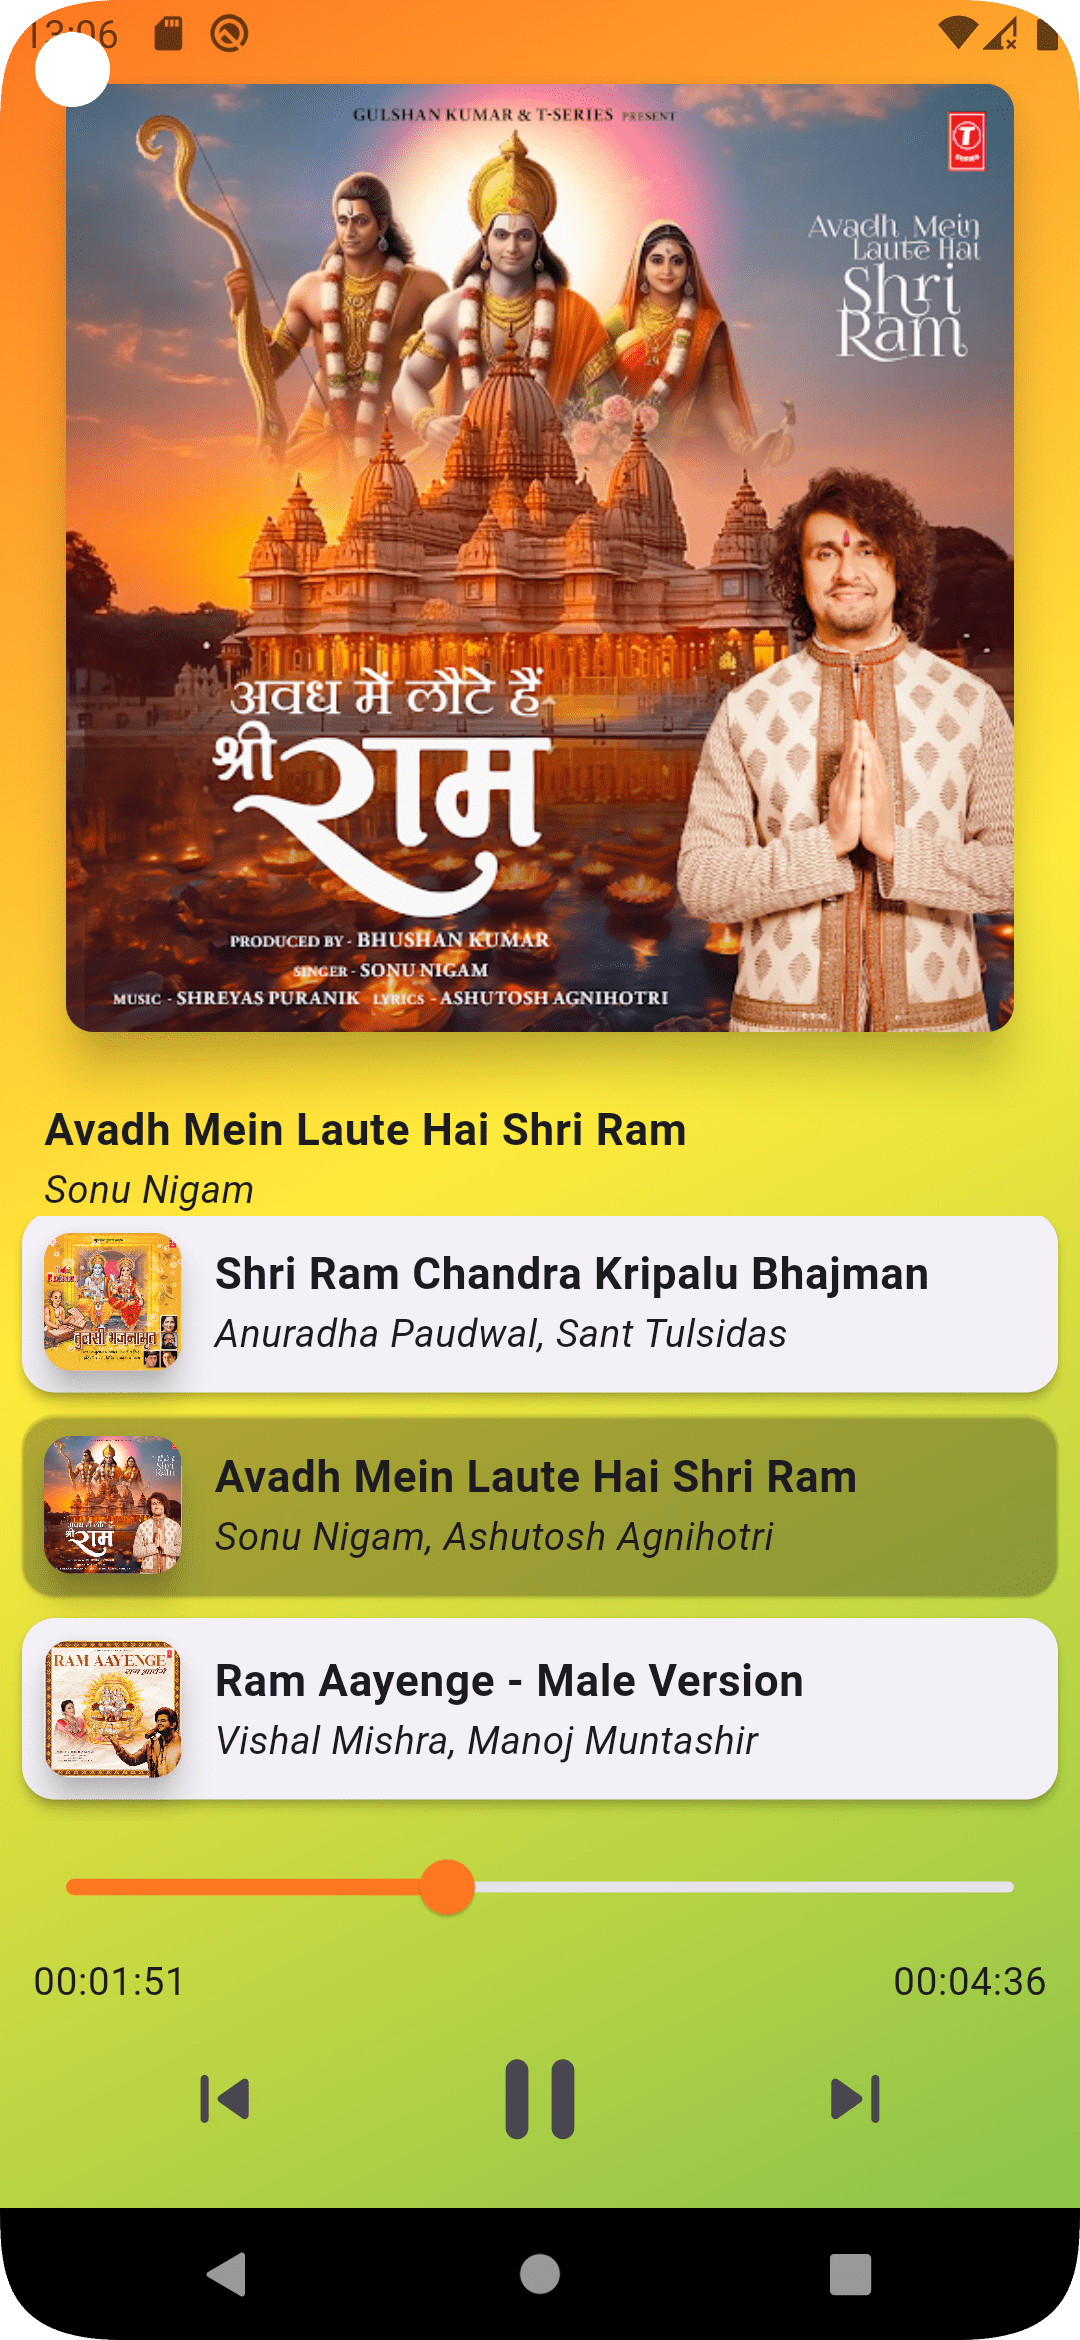
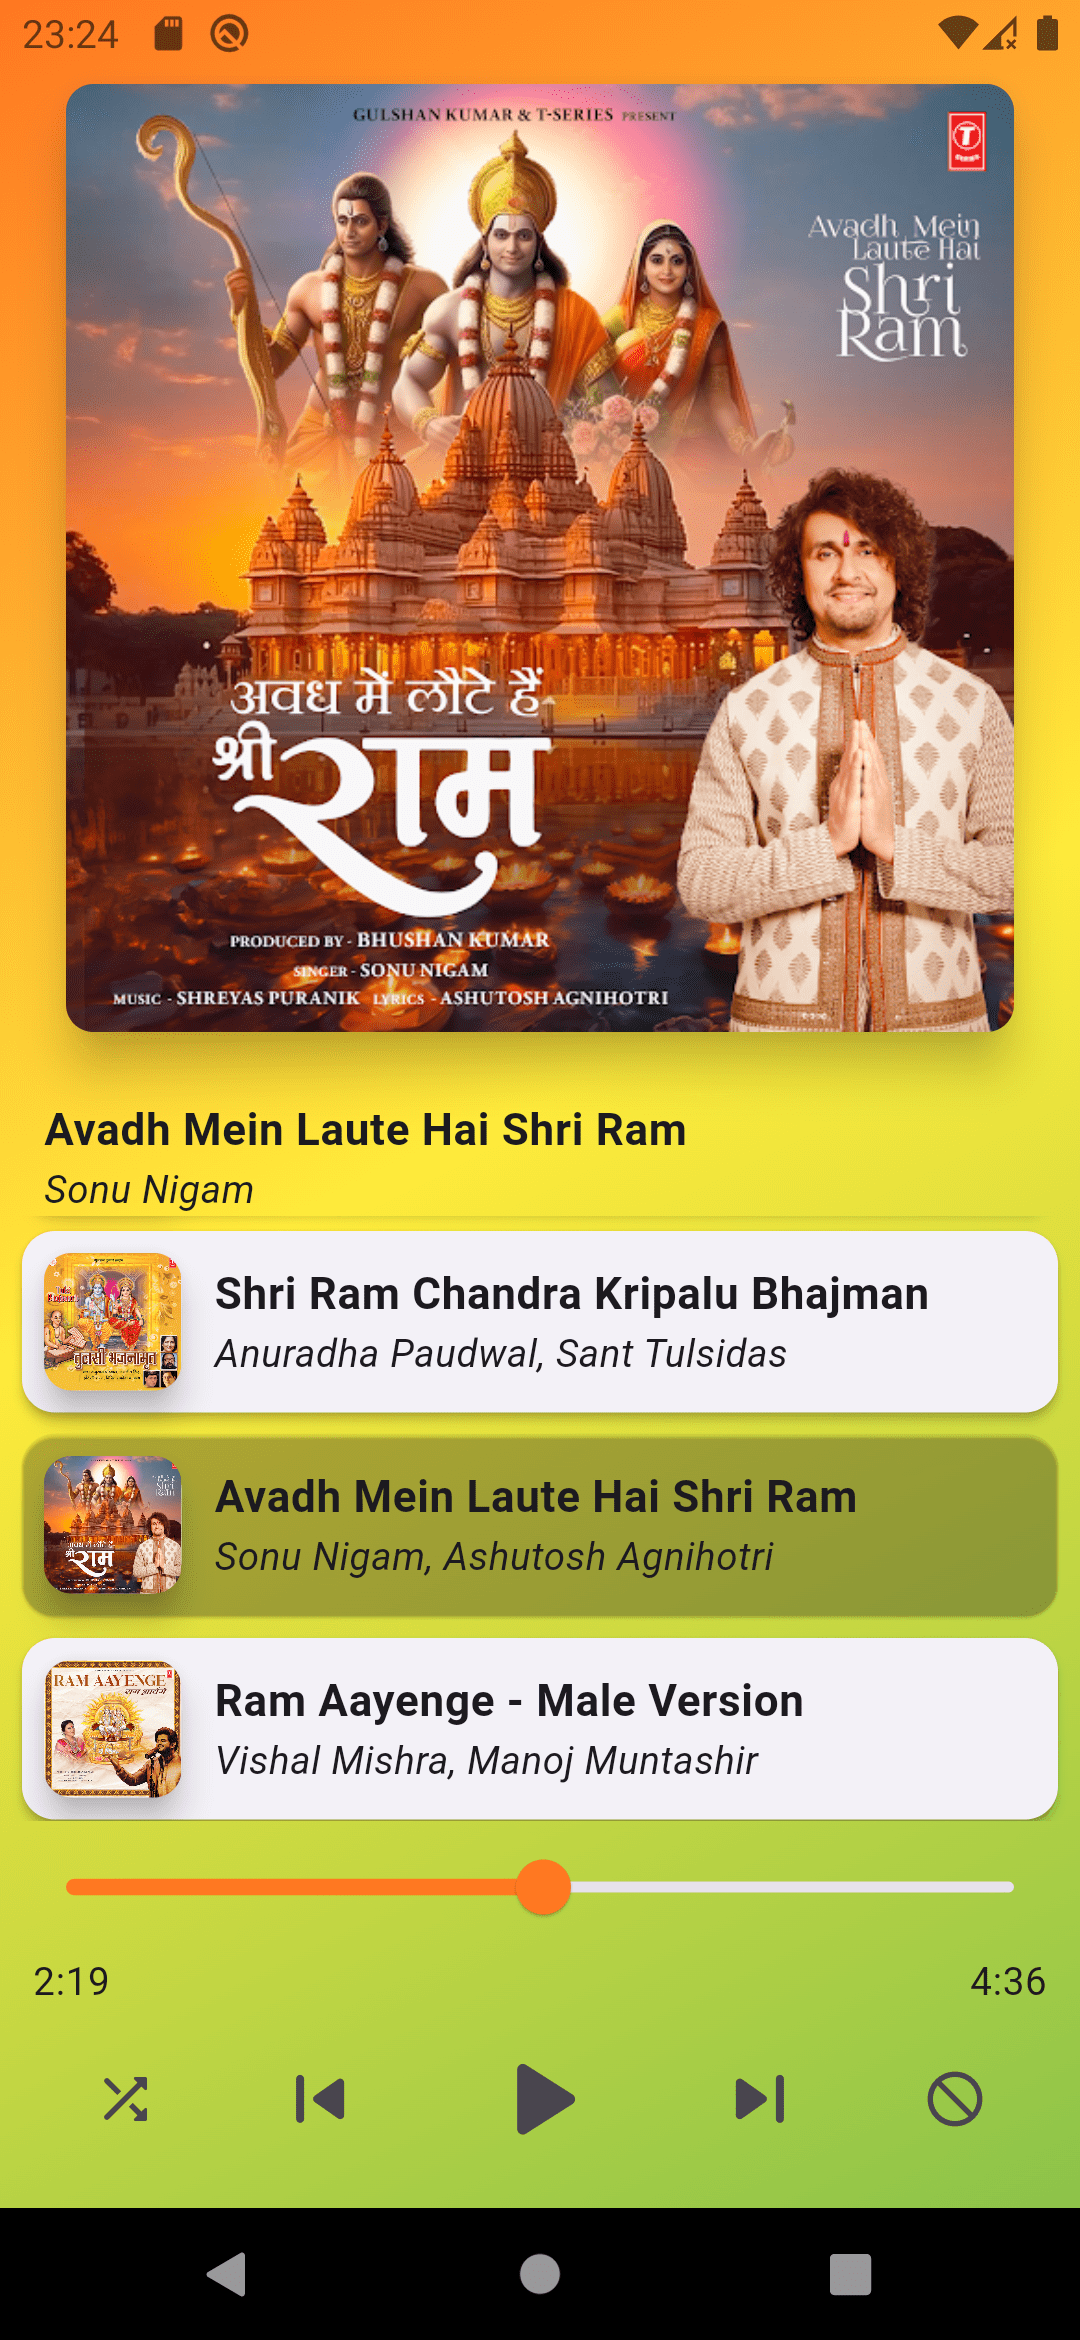
new screenshot added

diff --git a/ram-mandir-history_Flutter/lib/Screens/timeline_screen.dart b/ram-mandir-history_Flutter/lib/Screens/timeline_screen.dart
@@ -1,3 +1,4 @@
+import 'package:audioplayers/audioplayers.dart';
 import 'package:flutter/material.dart';
 import 'package:ram_mandir_history_project/Model/timeline_model.dart';
 import 'package:ram_mandir_history_project/Screens/audio_screen.dart';
@@ -122,10 +123,19 @@ class _TimelineScreenState extends State<TimelineScreen> {
       floatingActionButton: FloatingTextIconButton(
         label: kPlayBhajanText,
         icon: const Icon(Icons.music_note_rounded),
-        onTap: () {
-          Navigator.of(context).push(MaterialPageRoute(builder: (context) {
-            return AudioScreen();
-          }));
+        onTap: () async {
+          String url =
+              // 'https://drive.google.com/file/d/1eOcge9W1axhfilvkpGLvJBxbvzV_mEVa';
+              'https://firebasestorage.googleapis.com/v0/b/flash-chat-flutter-app-2121c.appspot.com/o/Has%20ke%20gujari%20ja.mp3?alt=media&token=175bd72e-6598-4e2c-ba4f-cf0a03a55480';
+          AudioPlayer player = AudioPlayer();
+          await player.setSourceUrl(url);
+          player.resume();
+
+          print(player.source);
+
+          // Navigator.of(context).push(MaterialPageRoute(builder: (context) {
+          //   return AudioScreen();
+          // }));
         },
       ),
     );
